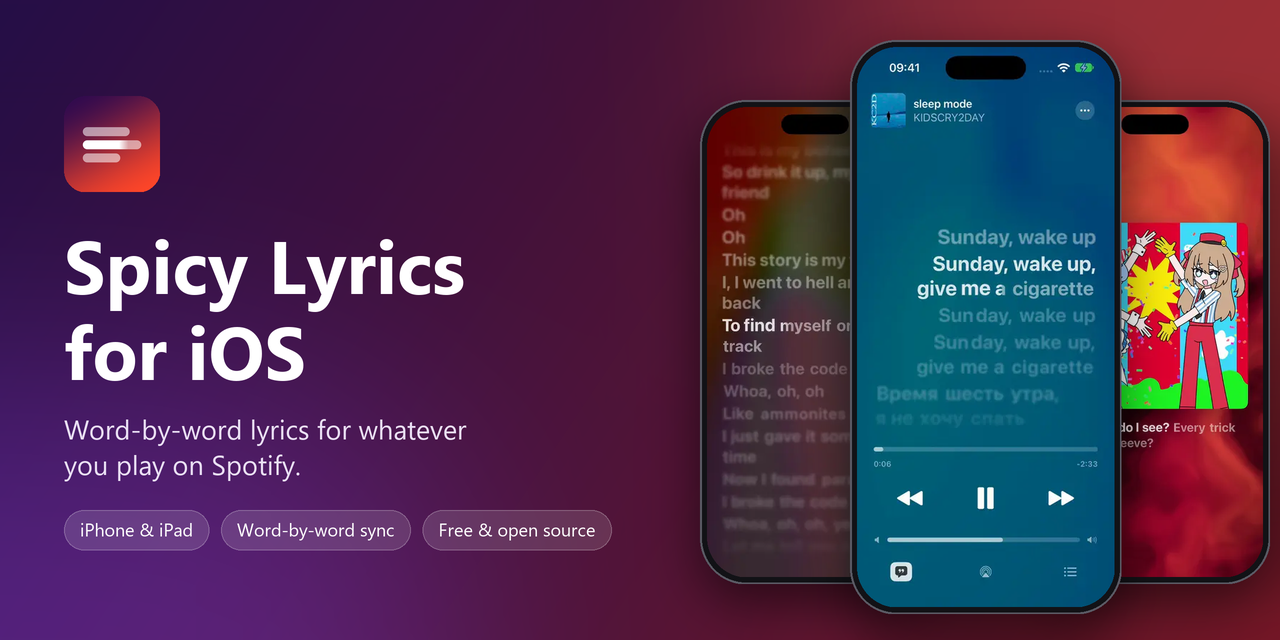
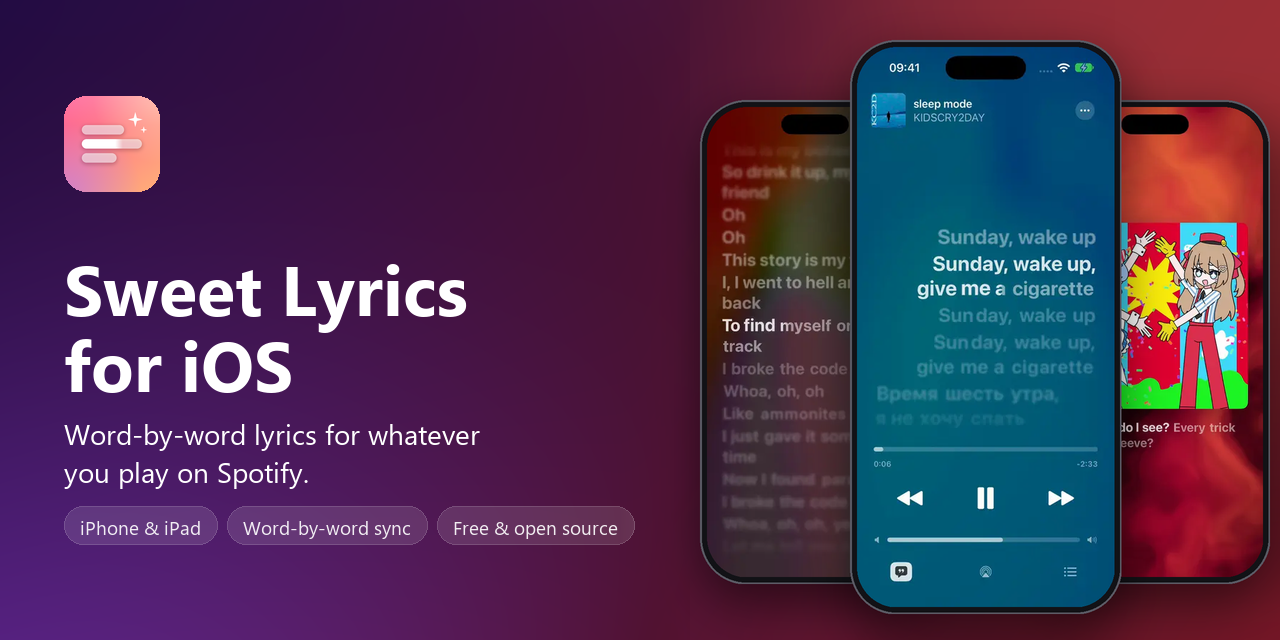
Rename the app to Sweet Lyrics (#58)
* Rename the app to Sweet Lyrics (unofficial port built on Spicy Lyrics)

* New sweet icon, banner and AltStore tint to match

* Point every link at Sppqq/sweet-lyrics-ios

---------

Changed region(s): [[0.0312, 0.6562, 0.5, 0.875], [0.0312, 0.375, 0.375, 0.625], [0.0312, 0.125, 0.125, 0.3125]]

diff --git a/SpicyLyrics/UI/SettingsView.swift b/SpicyLyrics/UI/SettingsView.swift
@@ -855,7 +855,7 @@ private struct AboutSettings: View {
             Section {
                 Link(String(localized: "Spicy Lyrics (оригинал)"), destination: URL(string: "https://github.com/Spikerko/spicy-lyrics")!)
                 Link("Spicy Lyrics Mobile (Android)", destination: URL(string: "https://github.com/spicylyrics/mobile")!)
-                Link(String(localized: "Этот проект на GitHub"), destination: URL(string: "https://github.com/Sppqq/spicy-lyrics-ios")!)
+                Link(String(localized: "Этот проект на GitHub"), destination: URL(string: "https://github.com/Sppqq/sweet-lyrics-ios")!)
                 Link("LRCLIB", destination: URL(string: "https://lrclib.net")!)
             } footer: {
                 Text(String(localized: "Неофициальный iOS-порт. Распространяется по лицензии AGPL-3.0, как и оригинал. Не связан со Spotify AB."))

diff --git a/SpicyLyrics/UI/SpotifySetupGuideView.swift b/SpicyLyrics/UI/SpotifySetupGuideView.swift
@@ -39,7 +39,7 @@ struct SpotifySetupGuideView: View {
 
                 step(2, String(localized: "Создайте приложение")) {
                     Text("Нажмите **Create app** и заполните форму:")
-                    bullet("**App name** — любое, например «Spicy Lyrics».")
+                    bullet("**App name** — любое, например «Sweet Lyrics».")
                     bullet("**App description** — любое, например «Тексты песен».")
                     bullet("**Website** — можно оставить пустым.")
                     bullet("**Redirect URIs** — вставьте адрес ниже и нажмите **Add**:")

diff --git a/SpicyLyrics/UI/OnboardingView.swift b/SpicyLyrics/UI/OnboardingView.swift
@@ -14,7 +14,7 @@ struct OnboardingView: View {
             ScrollView {
                 VStack(alignment: .leading, spacing: 22) {
                     VStack(alignment: .leading, spacing: 8) {
-                        Text("Spicy Lyrics")
+                        Text("Sweet Lyrics")
                             .font(.system(size: 40, weight: .heavy))
                         Text(String(localized: "Синхронные по словам тексты для того, что играет у вас в Spotify."))
                             .font(.title3.weight(.medium))

diff --git a/SpicyLyrics/Support/DemoMode.swift b/SpicyLyrics/Support/DemoMode.swift
@@ -21,7 +21,7 @@ struct DemoTrack {
         let info = TrackInfo(
             id: id,
             uri: "spotify:track:\(id)",
-            title: defaults.string(forKey: "demoTitle") ?? "Spicy Lyrics",
+            title: defaults.string(forKey: "demoTitle") ?? "Sweet Lyrics",
             artists: defaults.string(forKey: "demoArtist").map { [$0] } ?? [],
             album: "",
             duration: defaults.object(forKey: "demoDuration") != nil ? defaults.double(forKey: "demoDuration") : 240,

diff --git a/SpicyLyrics/UI/SyncLogView.swift b/SpicyLyrics/UI/SyncLogView.swift
@@ -74,7 +74,7 @@ struct SyncLogView: View {
     private func header() -> [String] {
         let device = UIDevice.current
         return [
-            "Spicy Lyrics \(AppVersion.display)",
+            "Sweet Lyrics \(AppVersion.display)",
             "\(device.model), \(device.systemName) \(device.systemVersion)",
             "Exported \(SyncLog.time(Date()))",
             "offset \(Int(settings.timingOffsetMs)) ms, headphone latency \(settings.compensateOutputLatency ? "on" : "off") "

diff --git a/SpicyLyrics/PiP/LyricsPictureInPicture.swift b/SpicyLyrics/PiP/LyricsPictureInPicture.swift
@@ -454,7 +454,7 @@ struct PiPSnapshot: @unchecked Sendable {
         self.fpsText = fpsText
         animatedBackground = (settings?.pipAnimatedBackground ?? true) && !reduced
         showTitle = settings?.pipShowTitle ?? true
-        title = player.track?.title ?? "Spicy Lyrics"
+        title = player.track?.title ?? "Sweet Lyrics"
         artist = player.track?.artistLine ?? ""
         isPlaying = player.isPlaying
         artworkID = player.artworkID

diff --git a/SpicyLyrics/UI/NowPlayingView.swift b/SpicyLyrics/UI/NowPlayingView.swift
@@ -692,7 +692,7 @@ struct NowPlayingView: View {
         case .episode(let title, _, _): return title
         case .ad: return String(localized: "Реклама")
         case .unknown: return String(localized: "Неизвестный трек")
-        case .none: return "Spicy Lyrics"
+        case .none: return "Sweet Lyrics"
         }
     }
 

diff --git a/scripts/altstore-source.py b/scripts/altstore-source.py
@@ -55,21 +55,21 @@ def make_source(repo, channel, releases):
     raw = f"https://raw.githubusercontent.com/{repo}/main"
     icon = raw + "/SpicyLyrics/Assets.xcassets/AppIcon.appiconset/AppIcon.png"
     return {
-        "name": "Spicy Lyrics - " + ("Alpha & Beta" if testing else "Stable"),
+        "name": "Sweet Lyrics - " + ("Alpha & Beta" if testing else "Stable"),
         "identifier": "com.spicylyrics.unofficial.source" + (".testing" if testing else ""),
         "subtitle": "Alpha, beta and stable builds" if testing else "Stable releases",
-        "description": "Unofficial Spicy Lyrics for iOS. " + ("Testing channel: alpha, beta and stable releases." if testing else "Stable channel."),
+        "description": "Sweet Lyrics for iOS: an unofficial port built on Spicy Lyrics. " + ("Testing channel: alpha, beta and stable releases." if testing else "Stable channel."),
         "iconURL": icon,
         "website": f"https://github.com/{repo}",
-        "tintColor": "#8B5CF6",
+        "tintColor": "#FF6B9D",
         "apps": [{
-            "name": "Spicy Lyrics" + (" (Alpha & Beta)" if testing else ""),
+            "name": "Sweet Lyrics" + (" (Alpha & Beta)" if testing else ""),
             "bundleIdentifier": "com.spicylyrics.unofficial.ios",
             "developerName": "Sppq",
             "subtitle": "Word-synced lyrics for Spotify",
-            "localizedDescription": "Word-by-word synced lyrics for Spotify. " + ("Experimental alpha and beta updates." if testing else "Stable updates."),
+            "localizedDescription": "Word-by-word synced lyrics for Spotify. Unofficial port built on Spicy Lyrics, not affiliated with it. " + ("Experimental alpha and beta updates." if testing else "Stable updates."),
             "iconURL": icon,
-            "tintColor": "#8B5CF6",
+            "tintColor": "#FF6B9D",
             "category": "entertainment",
             "screenshots": [],
             "versions": versions,

diff --git a/README.md b/README.md
@@ -1,6 +1,6 @@
-<p align="center"><img src="docs/media/banner.png" alt="Spicy Lyrics for iOS: word-by-word lyrics for whatever you play on Spotify"></p>
+<p align="center"><img src="docs/media/banner.png" alt="Sweet Lyrics for iOS: word-by-word lyrics for whatever you play on Spotify"></p>
 
-# Spicy Lyrics for iOS
+# Sweet Lyrics for iOS
 
 **Word-by-word lyrics for whatever you're playing on Spotify**, in an Apple Music style
 player on your iPhone or iPad.
@@ -12,7 +12,7 @@ the popular Spicetify extension for Spotify on desktop. Made by
 
 > **Heads up: it works, but it's still early.** You can use it every day, but expect some bugs
 > and settings that change between versions. If something breaks, please
-> [tell us](https://github.com/Sppqq/spicy-lyrics-ios/issues).
+> [tell us](https://github.com/Sppqq/sweet-lyrics-ios/issues).
 
 <p align="center">
   <img src="docs/media/code.webp" width="250" alt="Word-by-word lyrics over the flowing cover">
@@ -75,10 +75,10 @@ free apps that install apps from outside the App Store using your own Apple ID.
 - [AltStore](https://altstore.io): uses a small helper program on your computer.
 - [SideStore](https://sidestore.io): after the first setup, works on the phone alone.
 
-**2. Add Spicy Lyrics to it.** Copy this link:
+**2. Add Sweet Lyrics to it.** Copy this link:
 
 ```
-https://github.com/Sppqq/spicy-lyrics-ios/releases/latest/download/altstore-source.json
+https://github.com/Sppqq/sweet-lyrics-ios/releases/latest/download/altstore-source.json
 ```
 
 In AltStore or SideStore go to **Sources → +**, paste the link and tap **Add**.
@@ -87,14 +87,14 @@ In AltStore or SideStore go to **Sources → +**, paste the link and tap **Add**
 <summary>Want new features first? Use the test channel instead</summary>
 
 ```
-https://github.com/Sppqq/spicy-lyrics-ios/releases/latest/download/altstore-source-testing.json
+https://github.com/Sppqq/sweet-lyrics-ios/releases/latest/download/altstore-source-testing.json
 ```
 
 You get every new build as soon as it's made, so it can be buggier. Add only **one** of the two
 links: they install the same app.
 </details>
 
-**3. Install it.** Open the source, tap **Spicy Lyrics → Install** and wait a moment.
+**3. Install it.** Open the source, tap **Sweet Lyrics → Install** and wait a moment.
 
 **4. Connect Spotify.** Open the app and follow its guide. It takes about two minutes;
 [here's why it's needed](#why-do-i-have-to-create-a-spotify-app).
@@ -115,17 +115,17 @@ through it, and here are the same steps:
    `spicylyrics-ios://callback` and press **Add**. Tick **Web API**, accept, and **Save**.
 3. Open **Settings → User Management** and add the email of your Spotify account.
    You can add up to 5 people there, so friends can use your app too.
-4. Copy the **Client ID** from **Basic Information** and paste it into Spicy Lyrics.
+4. Copy the **Client ID** from **Basic Information** and paste it into Sweet Lyrics.
 
 ### The lyrics are a bit behind or ahead
 
-For the most exact timing, let Spicy Lyrics talk to the Spotify app on the same phone:
+For the most exact timing, let Sweet Lyrics talk to the Spotify app on the same phone:
 
 1. In your app on the [Spotify Developer Dashboard](https://developer.spotify.com/dashboard),
    open **Settings** and tick **iOS** as well.
-2. Add the **Bundle ID** shown in Spicy Lyrics under *Settings → Sync → If it won't connect*,
+2. Add the **Bundle ID** shown in Sweet Lyrics under *Settings → Sync → If it won't connect*,
    and the redirect URI `spicylyrics-ios://callback`.
-3. Sign in again in Spicy Lyrics if it asks.
+3. Sign in again in Sweet Lyrics if it asks.
 
 ### The app stopped opening after a week
 
@@ -142,7 +142,7 @@ A free Apple ID can have only 3 such apps at a time.
 - **"no link to Spotify"**: Spotify has to be playing on this phone. Tap the badge →
   *Open Spotify and Connect*.
 - **Anything else**: go to *Settings → Log → Share Log File* and
-  [open an issue](https://github.com/Sppqq/spicy-lyrics-ios/issues) with the file attached.
+  [open an issue](https://github.com/Sppqq/sweet-lyrics-ios/issues) with the file attached.
 
 ### Good to know
 
@@ -152,7 +152,7 @@ A free Apple ID can have only 3 such apps at a time.
 
 ### Can I install it without AltStore?
 
-Yes. Every [release](https://github.com/Sppqq/spicy-lyrics-ios/releases) has an `.ipa` file that
+Yes. Every [release](https://github.com/Sppqq/sweet-lyrics-ios/releases) has an `.ipa` file that
 you can sign with another tool, such as [Sideloadly](https://sideloadly.io).
 
 ## For developers
